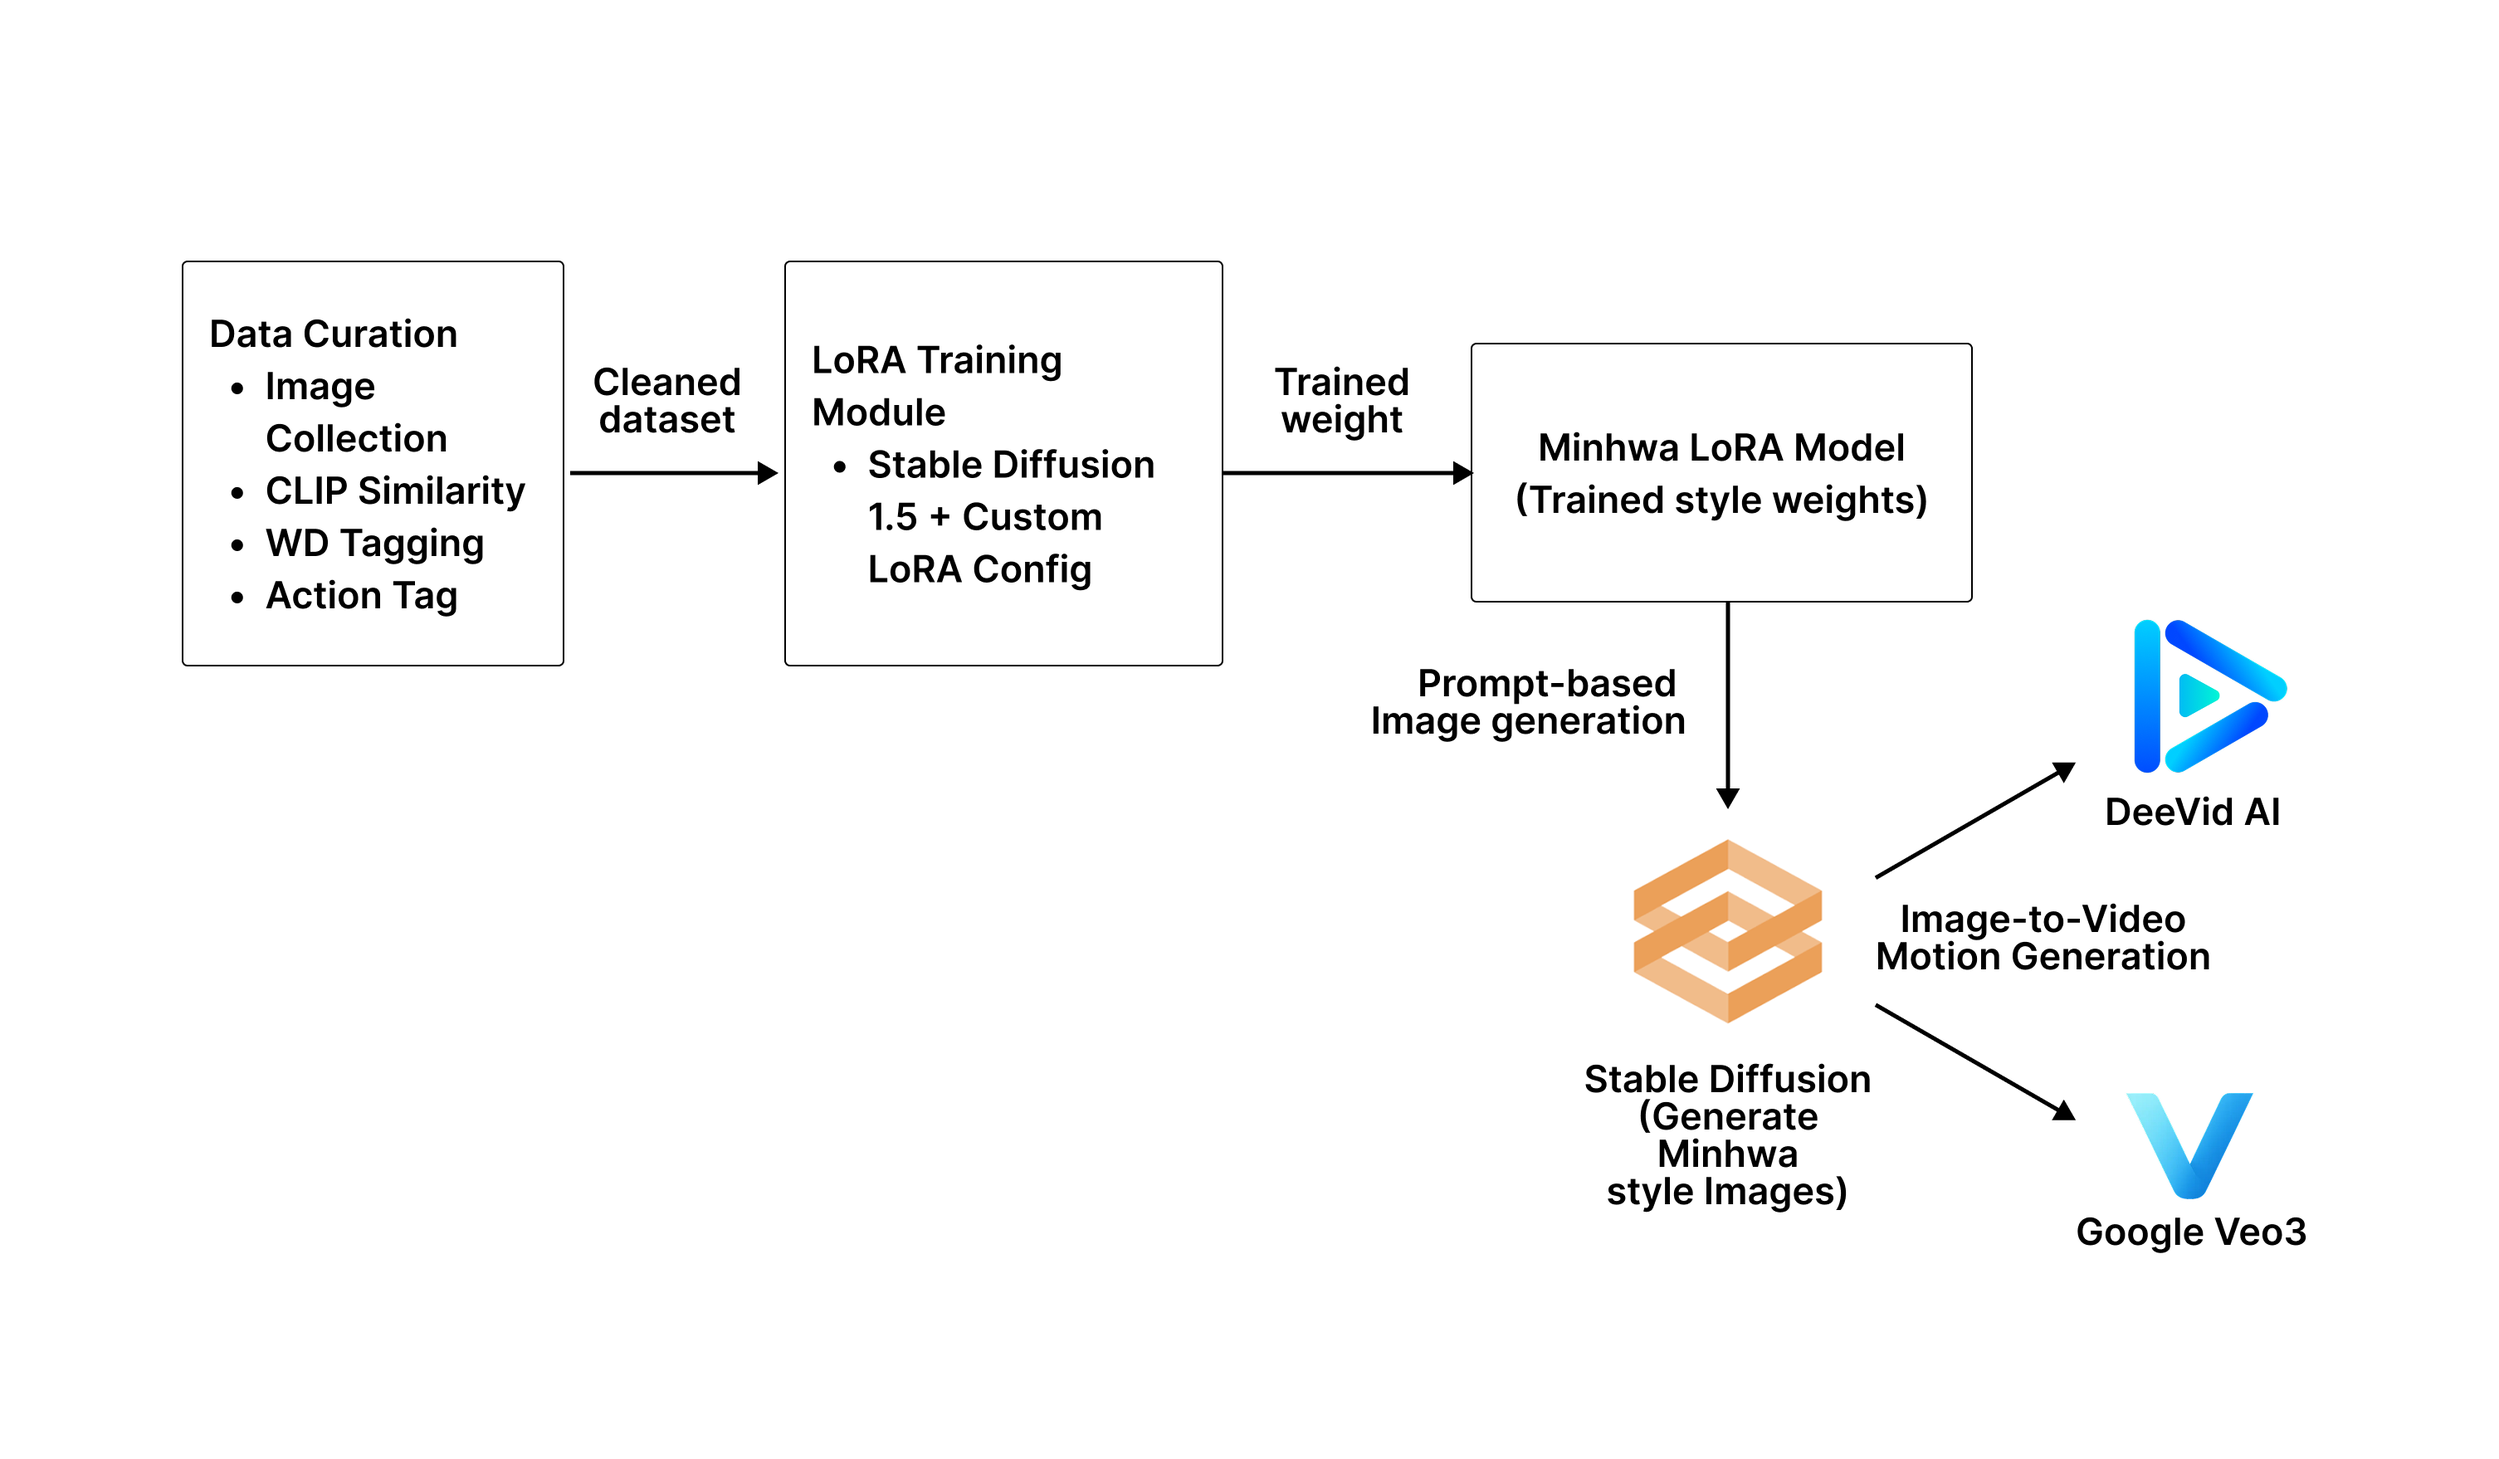
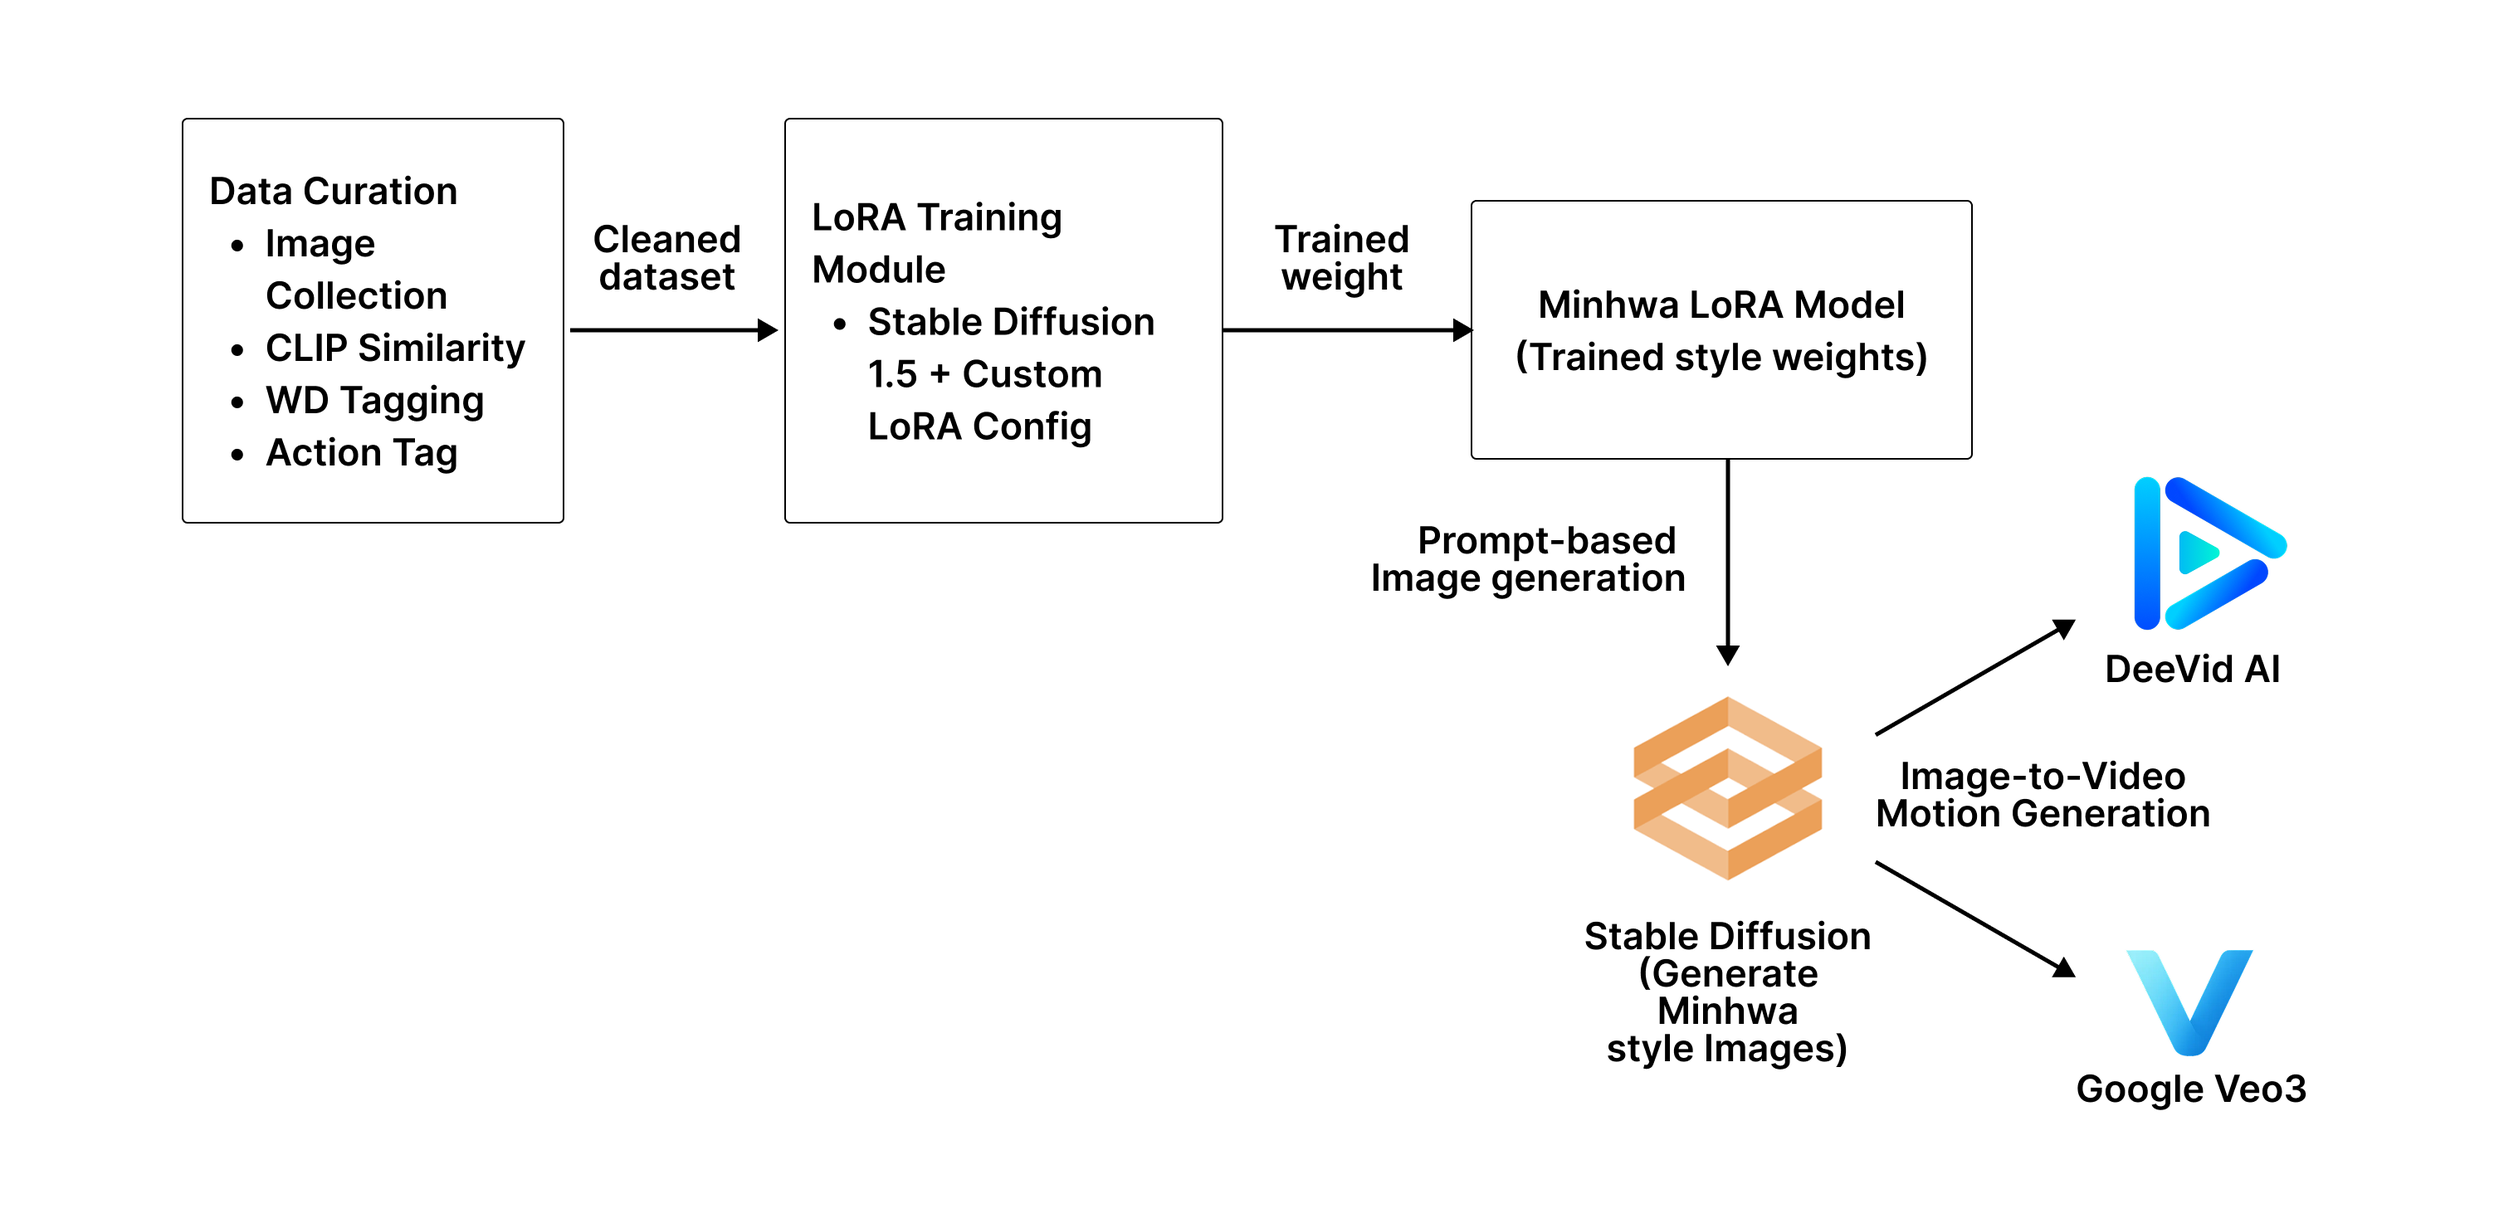
Crop the 바람과 병풍 diagram to match the Jeonju diagram ratio

diff --git a/index.html b/index.html
@@ -654,7 +654,7 @@
               <dt>Exhibition</dt>
               <dd><a class="ext" href="https://ixr-lab.com/news/art-korea-lab-folding-screen/" target="_blank" rel="noopener">〈바람과 병풍〉 ↗</a> · 아트코리아랩 · 2025.09.12 – 09.25<br><a class="ext" href="https://ixr-lab.com/news/digital-folding-screen-showcase/" target="_blank" rel="noopener">디지털 병풍 쇼케이스 ↗</a> · 전주대학교 X Space · 2025.11</dd>
               <dt>Architecture</dt>
-              <dd><div class="shot" style="margin:4px 0 0"><a href="img/wind_screen_arch.png" target="_blank" rel="noopener"><img src="img/wind_screen_arch.png" alt="〈바람과 병풍〉 생성 파이프라인 — 데이터 정제(이미지 수집, CLIP 유사도, WD 태깅) → Stable Diffusion 1.5 LoRA 학습 → 민화 LoRA로 이미지 생성 → DeeVid AI · Google Veo3로 이미지를 영상으로 변환" loading="lazy"></a></div><p class="vcap">〈바람과 병풍〉 생성 파이프라인 — 데이터 정제 → LoRA 학습 → 이미지 생성 → 영상화</p><div class="shot" style="margin:24px 0 0"><a href="img/jeonju_arch.png" target="_blank" rel="noopener"><img src="img/jeonju_arch.png" alt="전주대 디지털 병풍 쇼케이스 시스템 구조도 — 오프라인 LoRA 학습 · 3D 에셋 제작, 런타임 Unity 병풍 제어 · Hokuyo 터치 · Python 이미지 생성 모듈" loading="lazy"></a></div><p class="vcap">전주대 쇼케이스 시스템 구조도 — 오프라인 LoRA 학습 · 런타임 Unity 병풍 제어</p></dd>
+              <dd><div class="shot" style="margin:4px 0 0"><a href="img/wind_screen_arch.png" target="_blank" rel="noopener"><img src="img/wind_screen_arch.png?v=2" alt="〈바람과 병풍〉 생성 파이프라인 — 데이터 정제(이미지 수집, CLIP 유사도, WD 태깅) → Stable Diffusion 1.5 LoRA 학습 → 민화 LoRA로 이미지 생성 → DeeVid AI · Google Veo3로 이미지를 영상으로 변환" loading="lazy"></a></div><p class="vcap">〈바람과 병풍〉 생성 파이프라인 — 데이터 정제 → LoRA 학습 → 이미지 생성 → 영상화</p><div class="shot" style="margin:24px 0 0"><a href="img/jeonju_arch.png" target="_blank" rel="noopener"><img src="img/jeonju_arch.png" alt="전주대 디지털 병풍 쇼케이스 시스템 구조도 — 오프라인 LoRA 학습 · 3D 에셋 제작, 런타임 Unity 병풍 제어 · Hokuyo 터치 · Python 이미지 생성 모듈" loading="lazy"></a></div><p class="vcap">전주대 쇼케이스 시스템 구조도 — 오프라인 LoRA 학습 · 런타임 Unity 병풍 제어</p></dd>
               <dt>Related</dt>
               <dd><a class="ext" href="#hwagyeong">화경 →</a></dd>
             </dl>
